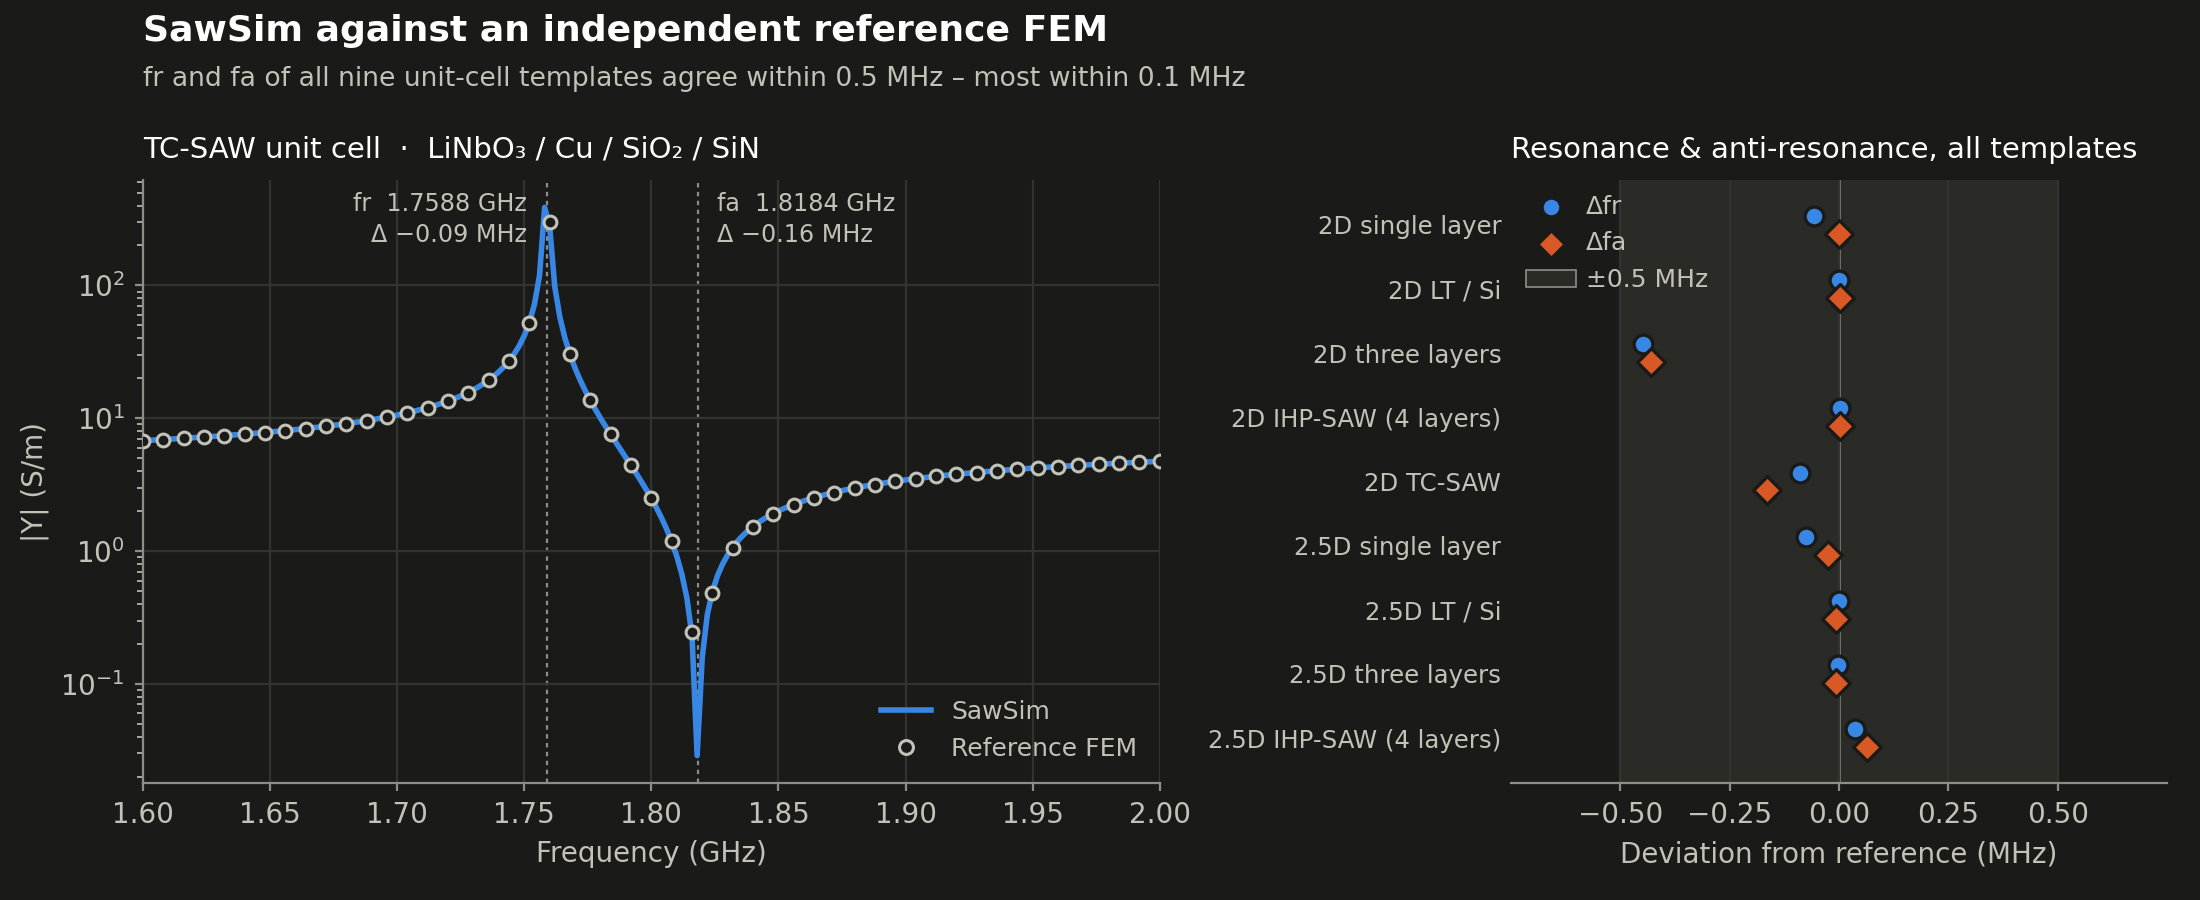
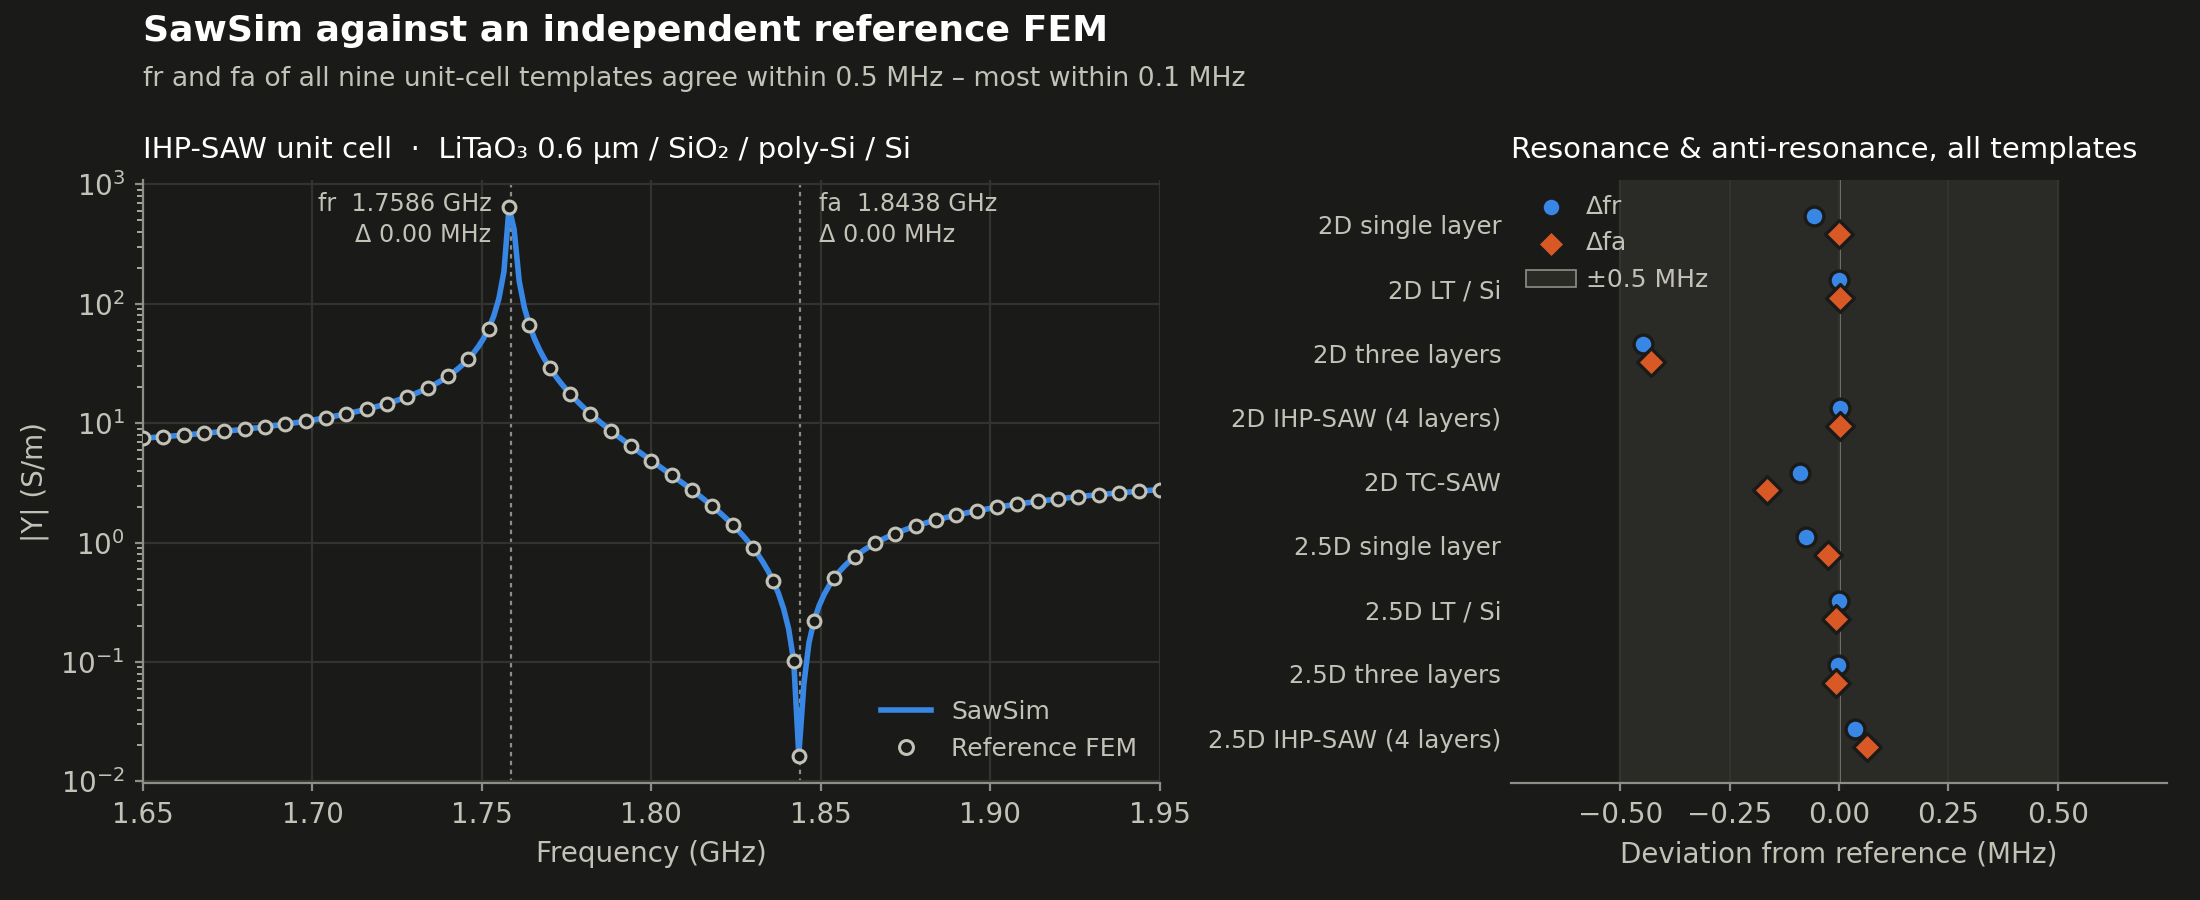
README figure: IHP-SAW unit cell in the admittance panel

diff --git a/docs/figures/make_readme_figure.py b/docs/figures/make_readme_figure.py
@@ -1,4 +1,4 @@
-"""README figure: (a) TC-SAW admittance, SawSim vs reference; (b) fr/fa deviation of all nine templates.
+"""README figure: (a) IHP-SAW admittance, SawSim vs reference; (b) fr/fa deviation of all nine templates.
 
 Writes docs/figures/readme_validation_{light,dark}.png. Run from the repo root: python docs/figures/make_readme_figure.py
 """
@@ -27,9 +27,13 @@ for mid, name in TEMPLATES:
     z = np.load('tests/data/%s.npz' % mid)
     r, s = resonances(z['frequency_hz'], z['reference_magnitude']), resonances(z['frequency_hz'], z['sawsim_magnitude'])
     rows.append((name, (s['fr_ghz'] - r['fr_ghz']) * 1e3, (s['fa_ghz'] - r['fa_ghz']) * 1e3))
-tc = np.load('tests/data/sp_tcsaw.npz')
-f = tc['frequency_hz'] * 1e-9
+# Panel (a): the 2D IHP-SAW cell (fr/fa deviation 0.00 / 0.00 MHz), window around the main resonance.
+tc = np.load('tests/data/sp_quad_layer.npz')
 r_tc, s_tc = resonances(tc['frequency_hz'], tc['reference_magnitude']), resonances(tc['frequency_hz'], tc['sawsim_magnitude'])
+win = (tc['frequency_hz'] >= 1.65e9) & (tc['frequency_hz'] <= 1.95e9)
+f = tc['frequency_hz'][win] * 1e-9
+sim, ref = tc['sawsim_magnitude'][win], tc['reference_magnitude'][win]
+shown = sorted(set(range(0, len(f), 4)) | {int(np.argmax(ref)), int(np.argmin(ref))})
 
 
 def draw(theme):
@@ -48,9 +52,8 @@ def draw(theme):
         a.tick_params(length=3, color=c['muted'])
 
     # (a) admittance
-    ax.semilogy(f, tc['sawsim_magnitude'], color=c['s1'], lw=2.0, zorder=3, solid_capstyle='round')
-    step = 4
-    ax.semilogy(f[::step], tc['reference_magnitude'][::step], ls='none', marker='o', ms=4.6, mfc=c['surface'],
+    ax.semilogy(f, sim, color=c['s1'], lw=2.0, zorder=3, solid_capstyle='round')
+    ax.semilogy(f[shown], ref[shown], ls='none', marker='o', ms=4.6, mfc=c['surface'],
                 mec=c['ref'], mew=1.1, zorder=4)
     ax.grid(True, which='major', color=c['grid'], lw=0.8)
     ax.set_xlim(f[0], f[-1])
@@ -67,7 +70,7 @@ def draw(theme):
                        Line2D([], [], ls='none', marker='o', ms=5, mfc=c['surface'], mec=c['ref'], mew=1.1,
                               label='Reference FEM')],
               loc='lower right', frameon=False, fontsize=9, labelcolor=c['ink2'])
-    ax.set_title('TC-SAW unit cell  ·  LiNbO₃ / Cu / SiO₂ / SiN', loc='left', fontsize=10.5, color=c['ink'], pad=8)
+    ax.set_title('IHP-SAW unit cell  ·  LiTaO₃ 0.6 µm / SiO₂ / poly-Si / Si', loc='left', fontsize=10.5, color=c['ink'], pad=8)
 
     # (b) fr/fa deviation dot plot
     y = np.arange(len(rows))[::-1]

diff --git a/README.en.md b/README.en.md
@@ -84,7 +84,7 @@ Each template is compared with an independent reference FEM solution: the resona
   <source media="(prefers-color-scheme: dark)" srcset="https://raw.githubusercontent.com/Duane245/sawsim/main/docs/figures/readme_validation_dark.png">
   <img alt="SawSim compared with an independent reference FEM" src="https://raw.githubusercontent.com/Duane245/sawsim/main/docs/figures/readme_validation_light.png" width="100%">
 </picture>
-<sub>Left: admittance of the TC-SAW unit cell, SawSim (line) and reference FEM (circles, every 4th sample). Right: resonance and anti-resonance deviation of all nine templates.</sub>
+<sub>Left: admittance of the IHP-SAW unit cell (LiTaO₃ 0.6 µm / SiO₂ / poly-Si / Si), SawSim (line) and reference FEM (circles, every 4th sample plus the peak and valley samples). Right: resonance and anti-resonance deviation of all nine templates.</sub>
 </div>
 
 ## Documentation

diff --git a/README.md b/README.md
@@ -83,7 +83,7 @@ sawsim converge '{"model_id": "sp_tcsaw"}'    # 网格加密检查
   <source media="(prefers-color-scheme: dark)" srcset="https://raw.githubusercontent.com/Duane245/sawsim/main/docs/figures/readme_validation_dark.png">
   <img alt="SawSim 与参考有限元解的比较" src="https://raw.githubusercontent.com/Duane245/sawsim/main/docs/figures/readme_validation_light.png" width="100%">
 </picture>
-<sub>左：TC-SAW 周期单元的导纳，SawSim（实线）与参考有限元解（圆点，每 4 个采样点显示 1 个）。右：九个模板的谐振与反谐振频率偏差。</sub>
+<sub>左：IHP-SAW 周期单元（LiTaO₃ 0.6 µm / SiO₂ / poly-Si / Si）的导纳，SawSim（实线）与参考有限元解（圆点，每 4 个采样点显示 1 个，含峰、谷采样点）。右：九个模板的谐振与反谐振频率偏差。</sub>
 </div>
 
 ## 文档
